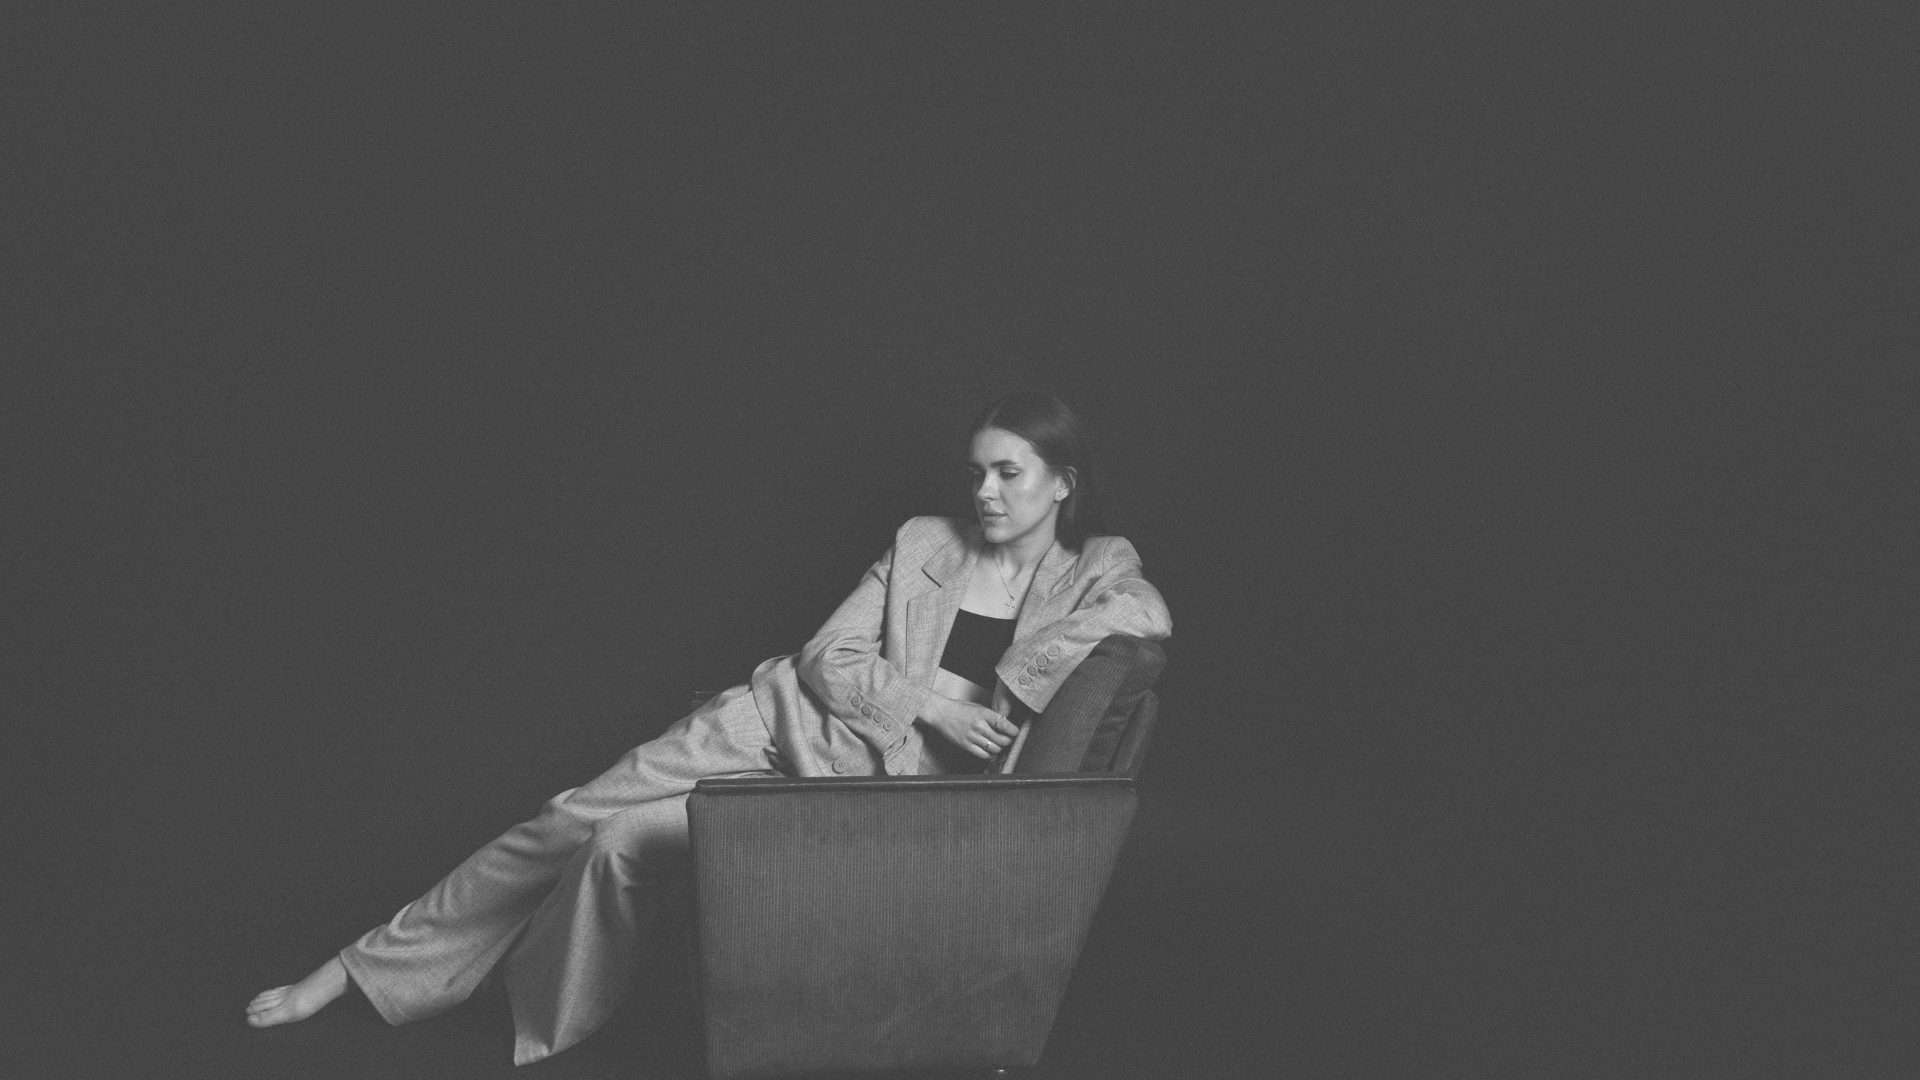
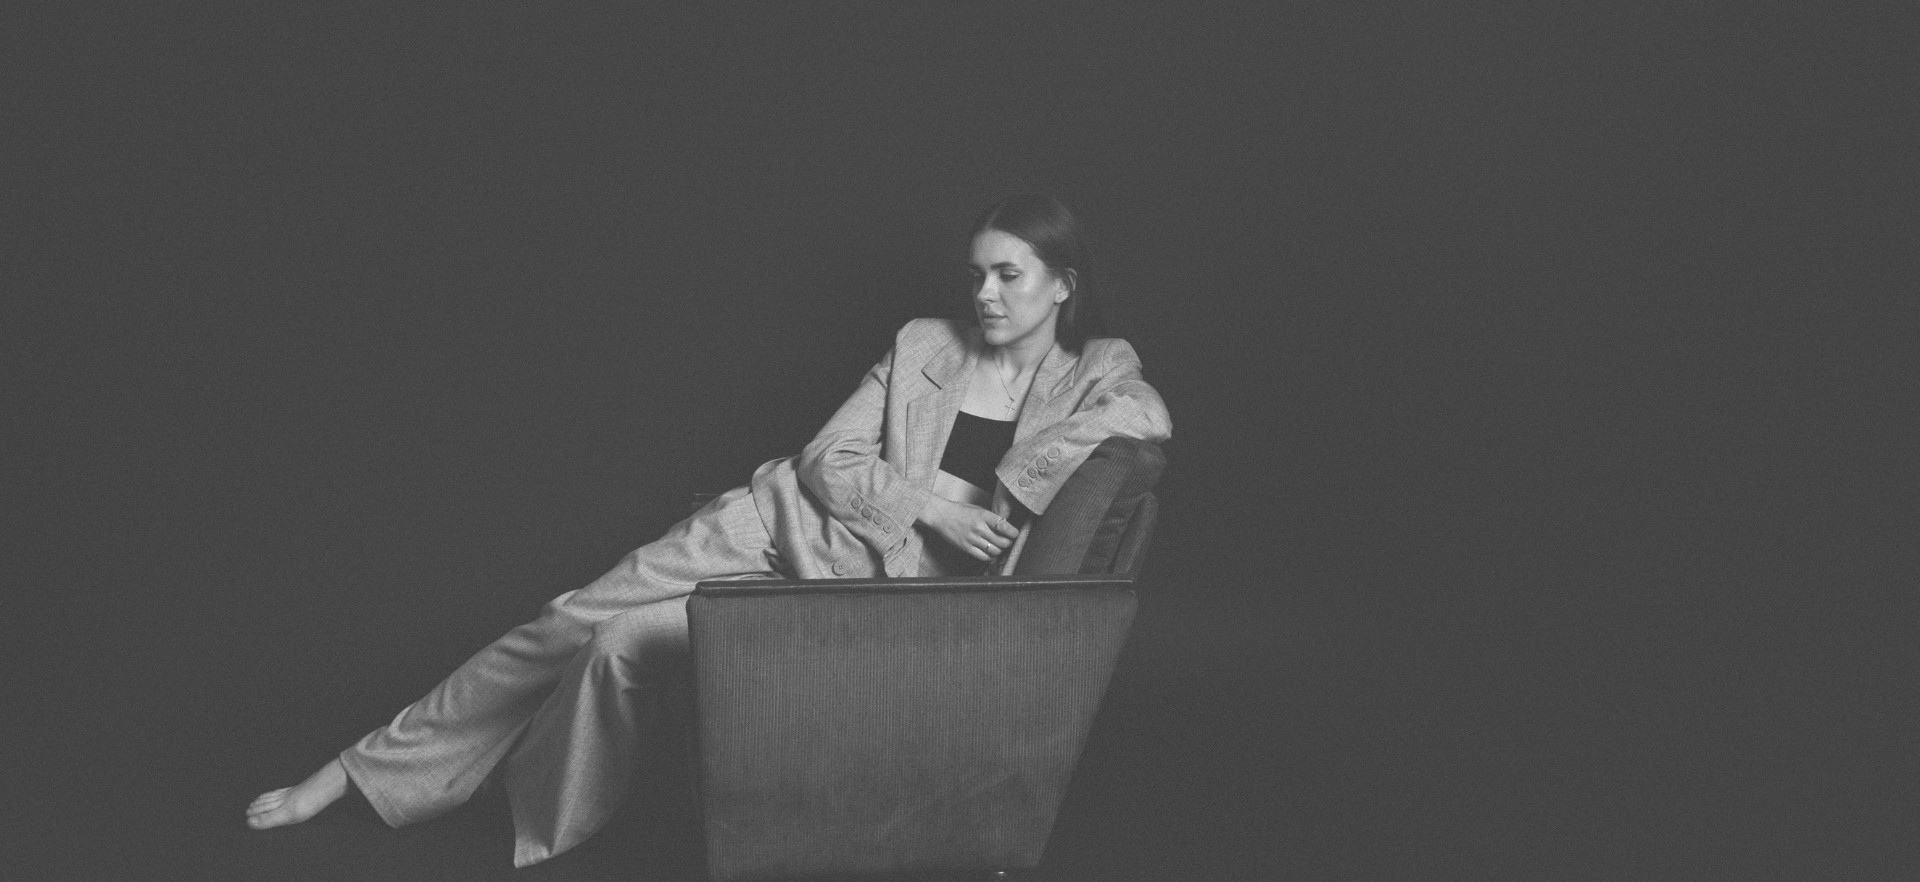
Update package.json, package-lock.json, Footer.jsx, Second.jsx, landing.jsx, and page.js (generated by blackbox.ai )

Changed region(s): [[0.125, 0.2449, 0.625, 0.949], [0.25, 0.949, 0.3125, 0.9796]]

diff --git a/src/app/Components/Footer.jsx b/src/app/Components/Footer.jsx
@@ -2,24 +2,26 @@ import React from "react";
 import { FaXTwitter } from "react-icons/fa6";
 import { FaFacebook, FaInstagram } from "react-icons/fa";
 
+
 const Footer = () => {
+
   return (
-    <div className=" h-[30vh] bg-black dark:bg-zinc-300 dark:text-black text-white">
+    <div className=" footer lg:h-[8vh] h-[5vh] bg-black dark:bg-zinc-300 dark:text-black text-white">
+       <div className="messagesend absolute w-full flex flex-col items-center justify-center">
+       <div className="p-4 bg-black bg-opacity-45 rounded-md shadow-md ">
+       <h1 className="text-center text-5xl"> Early access available</h1>
+        <div className="flex justify-center items-center gap-4 mt-10">
+         <input type="text" name="" id="" placeholder="Enter your email" className="text-white bg-transparent border-b-2 border-black text-xl focus:outline-none" />
+          <button className="p-3 rounded-full bg-black text-white">Subscribe</button> 
+        </div>
+       </div>
+      </div>
       <div className="social h-14 flex items-center justify-center gap-2 px-10 pt-2">
         <div className=" h-[1px] lg:min-w-[80vw] w-[70vw] dark:bg-black bg-white"></div>
         <div className="social flex lg:w-[10vw] w-[30vw] gap-4 text-3xl">
           <FaInstagram className=" cursor-pointer dark:hover:text-white hover:text-zinc-400" />
           <FaFacebook className="cursor-pointer dark:hover:text-white hover:text-zinc-400" />
           <FaXTwitter className="cursor-pointer dark:hover:text-white hover:text-zinc-400" />
-        </div>
-      </div>
-      <div className="w-full flex flex-col lg:flex-row px-2 gap-1 lg:px-10">
-        <div className="logo text-3xl lg:w-[20vw]"><h1>TSW</h1></div>
-        <div className=" font-secondary others lg:border-l border-gray-600 pl-2">
-            <h1>About Us</h1>
-            <p>Our community</p>
-            <p>Join us</p>
-
         </div>
       </div>
     </div>

diff --git a/src/app/homeComponent/Second.jsx b/src/app/homeComponent/Second.jsx
@@ -43,6 +43,11 @@ const SecondPage = () => {
             }
           },
         },
+        onComplete: () => {
+          gsap.to('.messagesend',{
+            y:-190
+          })
+        }
       });
     });
     return () => ctx.revert();
@@ -59,18 +64,24 @@ const SecondPage = () => {
       <div className="secondpage h-[100vh] w-full">
         <div className="thirdpinner2 relative overflow-hidden w-full h-full">
           <img
-            className="lg:w-full brightness-90  h-full object-cover"
+            className="lg:w-full hidden lg:block brightness-90  h-full object-cover"
             src="/Image/20.png"
             alt="N/A"
           />
-          <div className="darkfront text-white h-full w-full absolute lg:pl-3 p-1 top-0 flex flex-col justify-center">
-            <h1 className=" font-primary lg:w-[60%] text-4xl w-[80%] lg:text-5xl font-bold">
+        <img className="landingpageimg w-full object-cover block lg:hidden " src="/MobileImg/20.png" alt="N/A" />
+
+          <div className="darkfront text-white h-full w-full absolute lg:pl-3 p-1 top-0 flex items-center flex-col justify-center">
+            <h1 className=" font-primary lg:w-[65%] text-4xl w-[80%] lg:text-5xl font-bold">
               Style your outfits or match your mood-swings in a go
             </h1>
           </div>
         </div>
       </div>
-      <div className="fandb h-[100vh] relative mt-32 flex lg:flex-row flex-col items-center">
+      
+      <div className="h-32 w-full text-[3vw] font-primary flex items-center justify-center">
+  <h1>What if we were capable of creating a higher quality of life?</h1>
+      </div>
+      <div className="fandb h-[100vh] relative flex lg:flex-row flex-col items-center">
         <div className="slider flex items-center overflow-hidden w-[100%] h-full">
           <div
             className="text-white h-full w-full"   

diff --git a/src/app/homeComponent/landing.jsx b/src/app/homeComponent/landing.jsx
@@ -38,11 +38,12 @@ const Landing = () => {
       className="h-[100vh] overflow-hidden"
     >
       <img
-        className="landingpageimg lg:w-full h-full "
+        className="landingpageimg hidden lg:block object-cover h-full "
         src="/Image/14.png"
         alt="N/A"
       />
-      <div className="landingpageheading  h-[7vw] overflow-hidden font-primary absolute top-[40vh] lg:top-[56vh] w-full lg:text-[6.5vw] text-[7vw] text-white flex items-center justify-center font-medium">
+       <img className="landingpageimg h-full object-cover block lg:hidden " src="/MobileImg/14.png" alt="N/A" />
+      <div className="landingpageheading  h-[7vw] overflow-hidden font-primary absolute top-[40vh] lg:top-[45vh] w-full lg:text-[6.5vw] text-[7vw] text-white flex items-center justify-center font-medium">
       <h1 className="translate-y-full leading-none">Your pocket friendly stylist</h1>
       </div>
     </div>

diff --git a/src/app/page.js b/src/app/page.js
@@ -13,14 +13,11 @@ import gsap from "gsap";
 export default function Home() {
 useEffect(()=>{
   const lenis = new Lenis()
-
-
   lenis.on('scroll', ScrollTrigger.update)
   
   gsap.ticker.add((time)=>{
     lenis.raf(time * 1000)
   })
-  
   gsap.ticker.lagSmoothing(0)
   
 })
